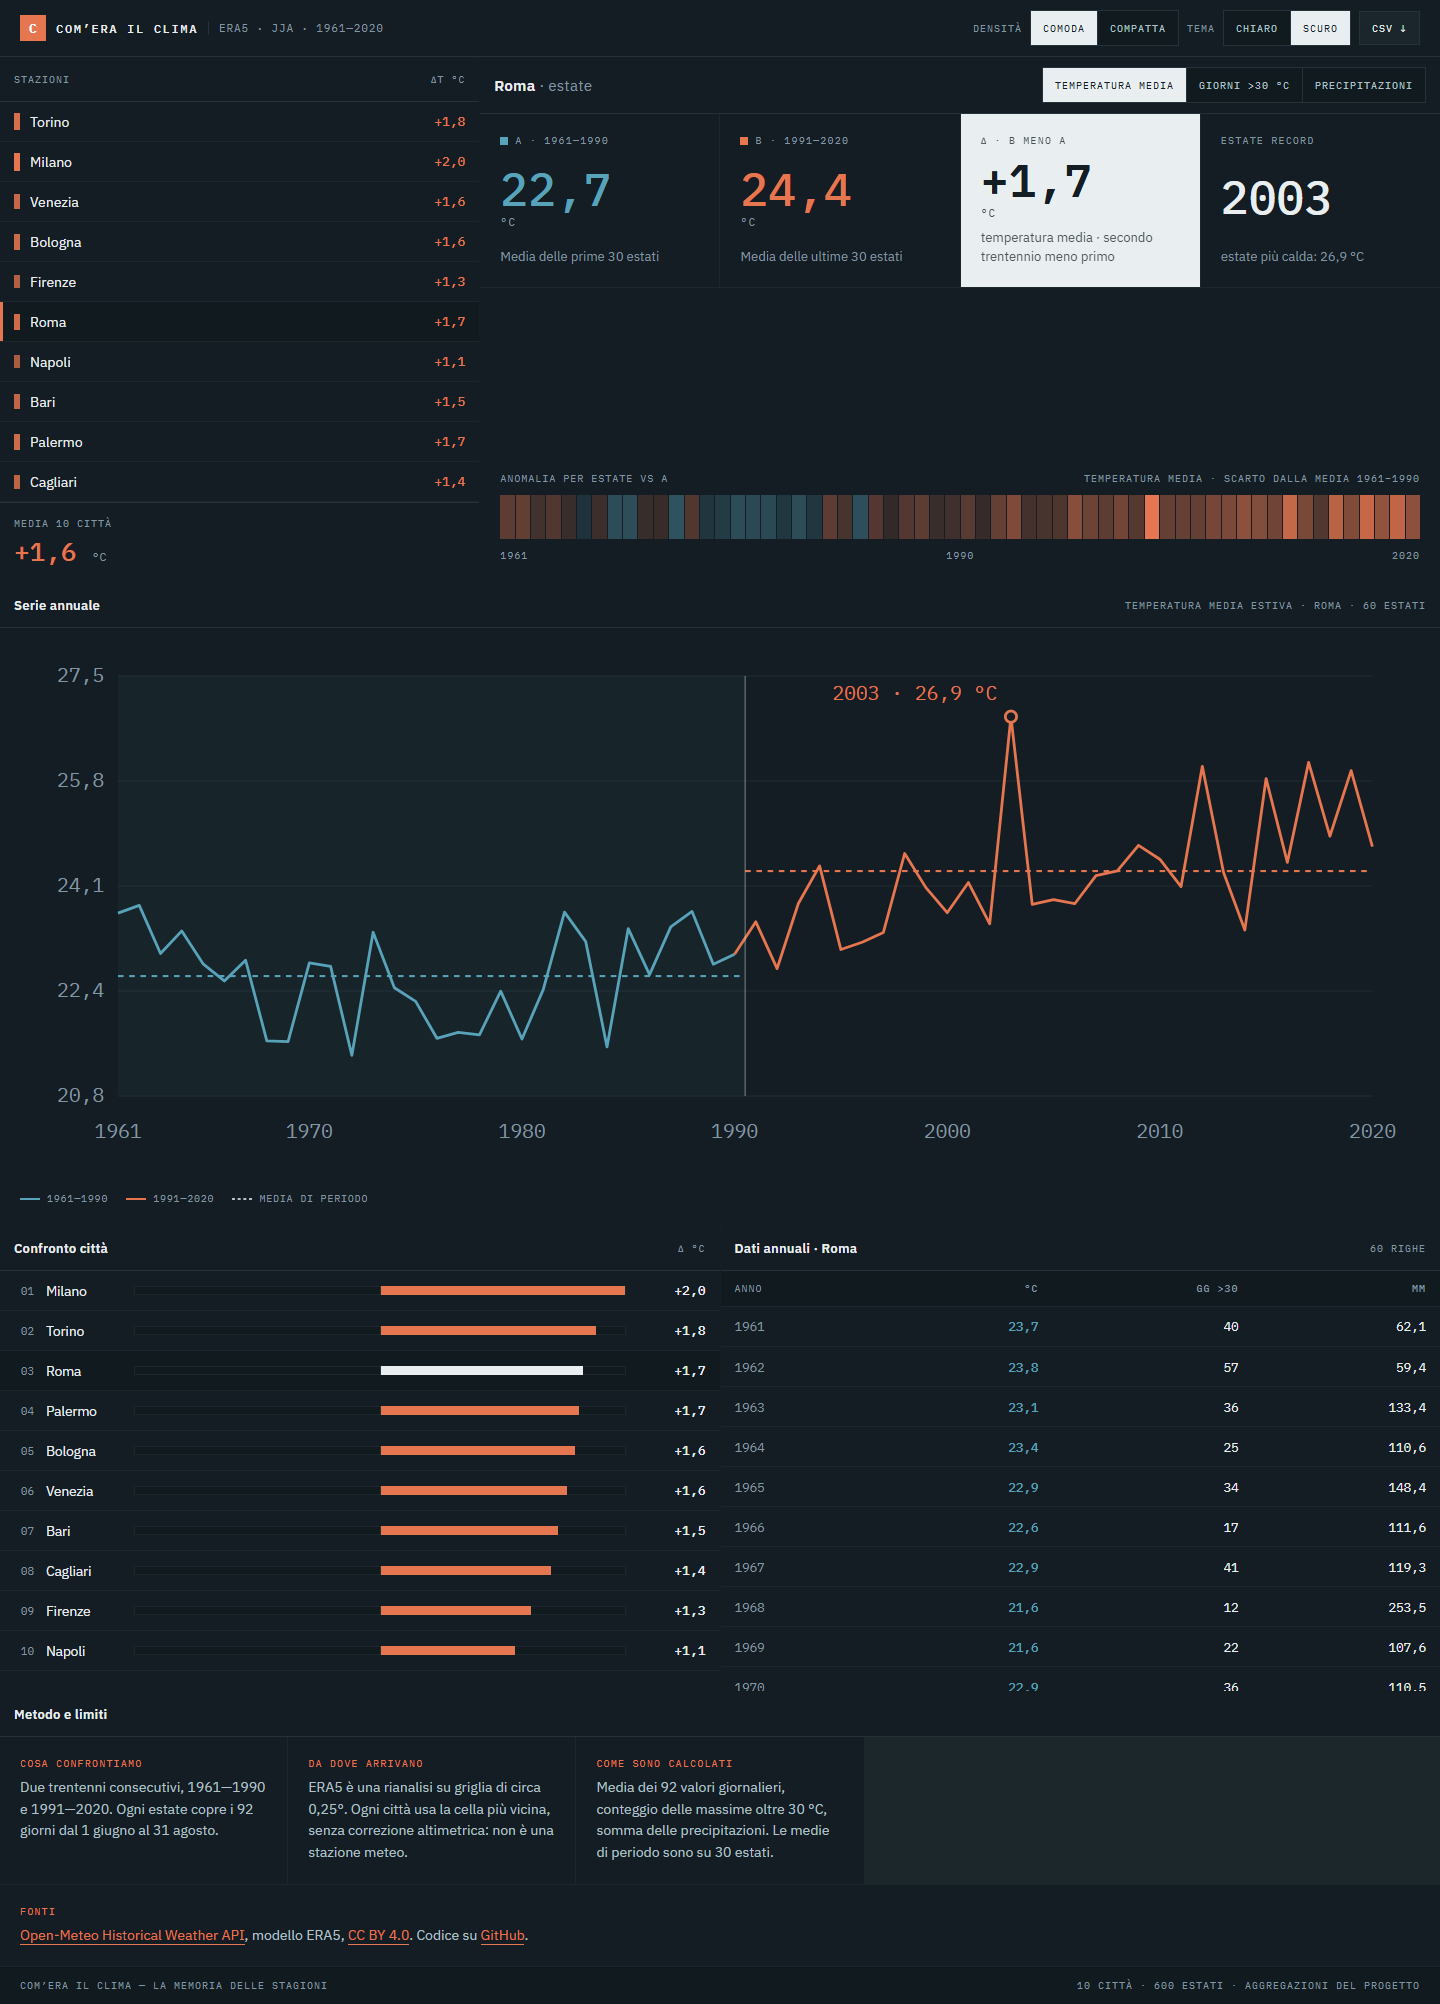
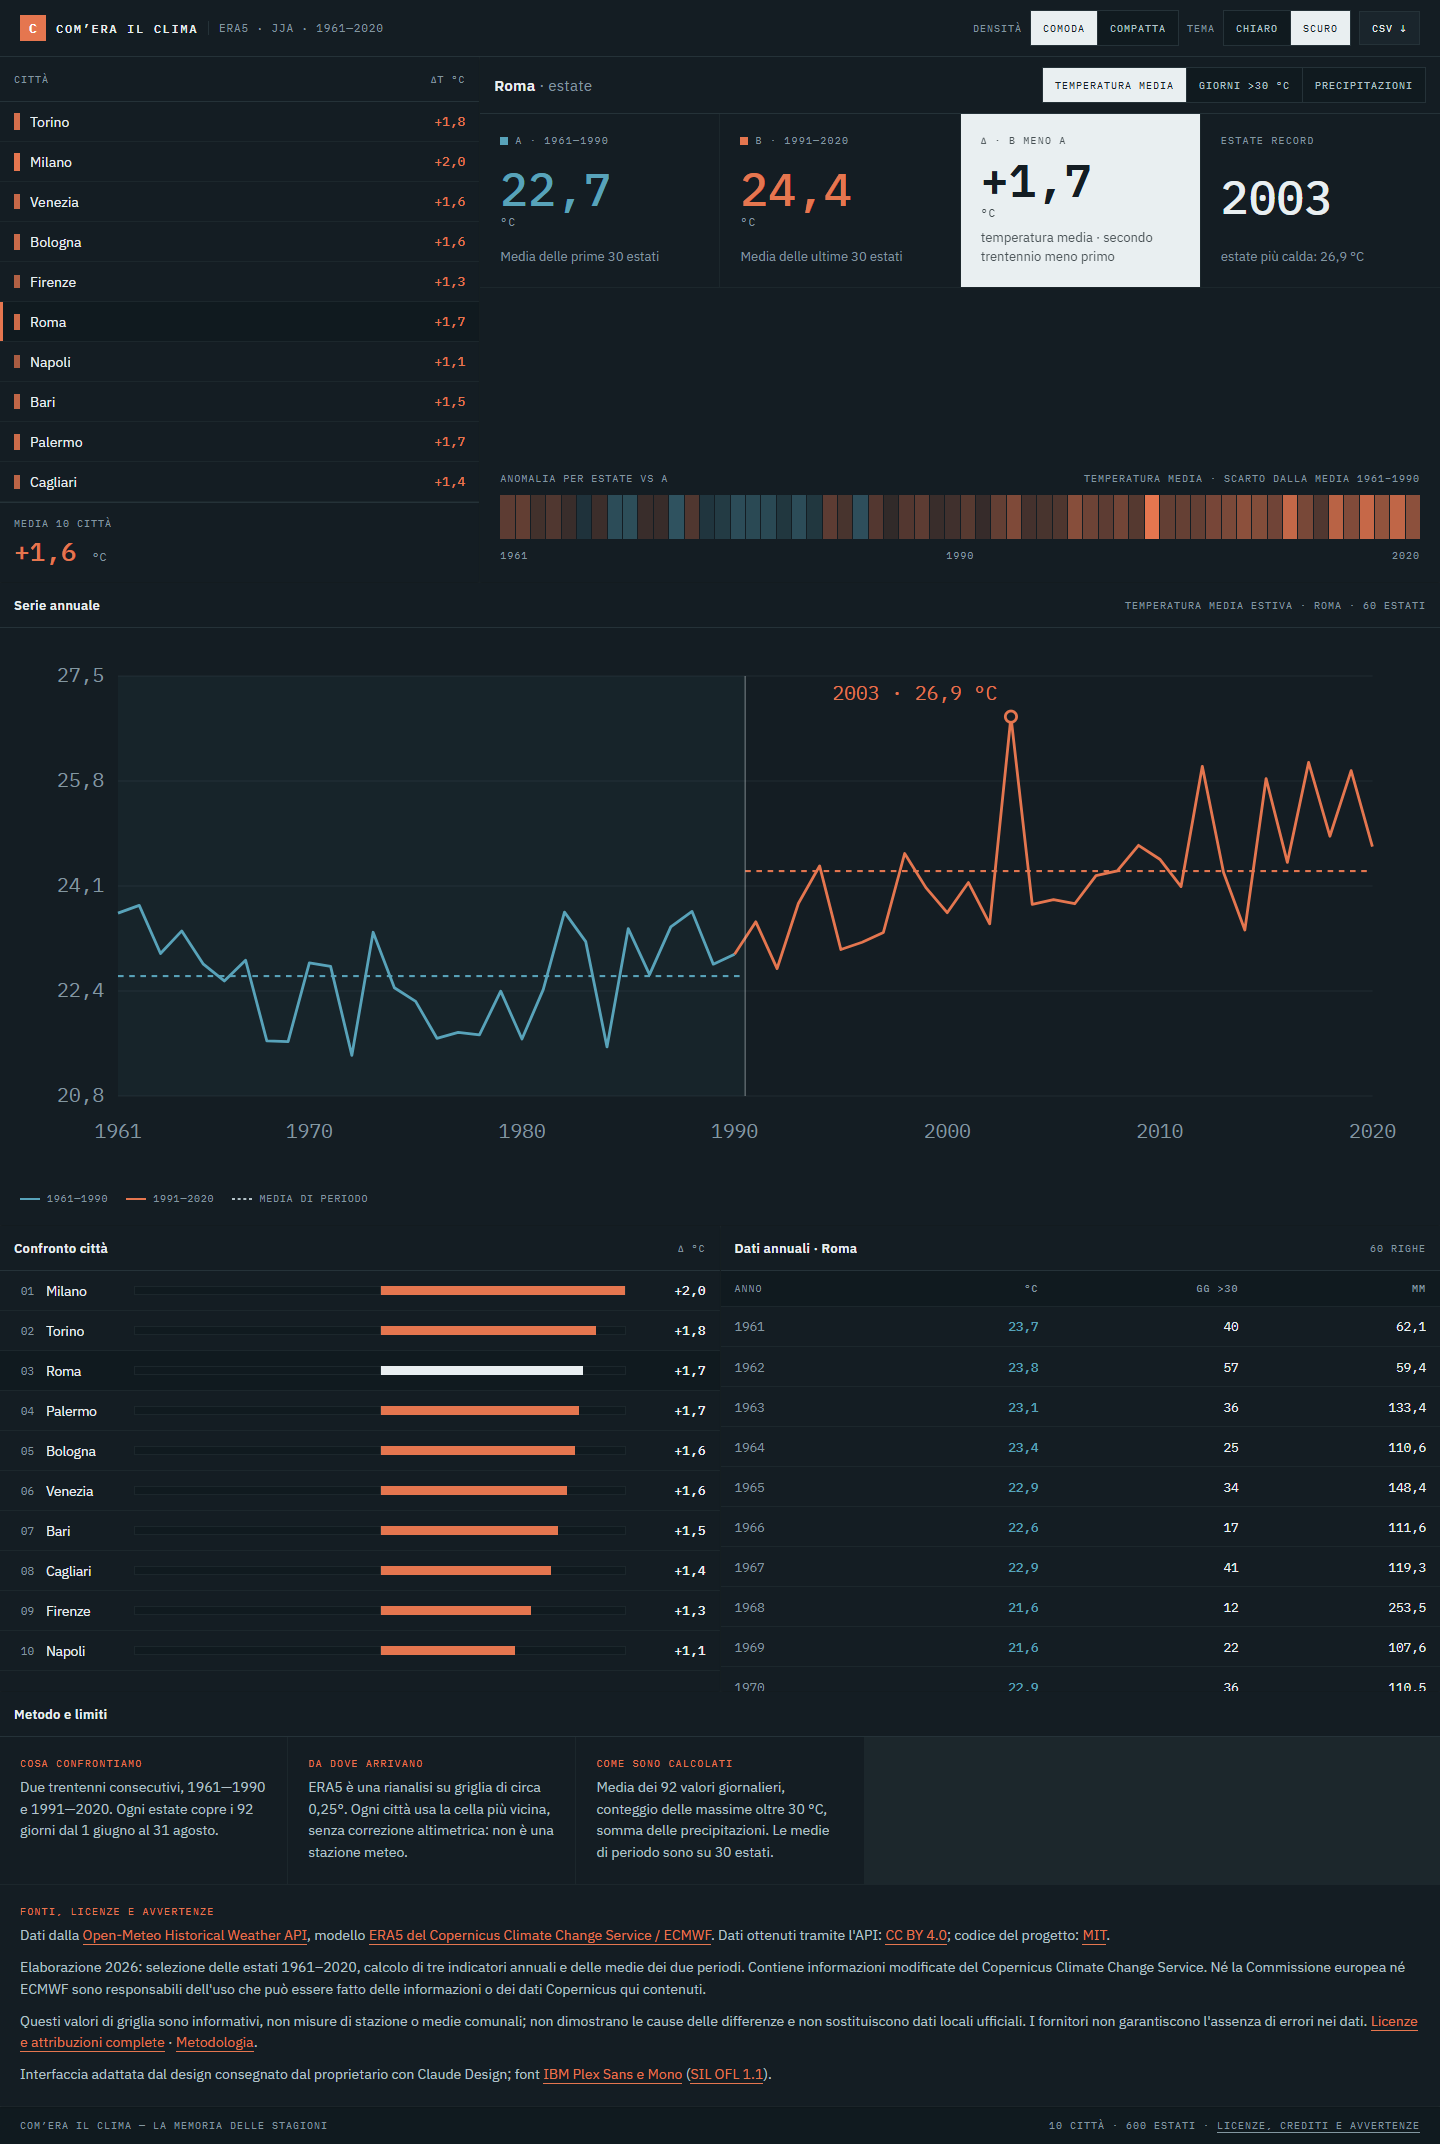
Chiarisce licenze crediti e limiti dei dati

diff --git a/src/main.ts b/src/main.ts
@@ -36,7 +36,7 @@ app.innerHTML = `
     </div>
   </header>
   <main id="console"><div class="initial-status" role="status">Caricamento della console climatica…</div></main>
-  <footer class="site-footer"><span>Com’era il clima — la memoria delle stagioni</span><span>10 città · 600 estati · aggregazioni del progetto</span></footer>
+  <footer class="site-footer"><span>Com’era il clima — la memoria delle stagioni</span><span>10 città · 600 estati · <a href="https://github.com/giubud/comera-il-clima/blob/main/DATA_LICENSE.md">Licenze, crediti e avvertenze</a></span></footer>
 `;
 
 const consoleRoot = document.querySelector<HTMLElement>('#console')!;
@@ -56,7 +56,12 @@ function methodsMarkup(): string {
       <article><h4>Cosa confrontiamo</h4><p>Due trentenni consecutivi, 1961—1990 e 1991—2020. Ogni estate copre i 92 giorni dal 1 giugno al 31 agosto.</p></article>
       <article><h4>Da dove arrivano</h4><p>ERA5 è una rianalisi su griglia di circa 0,25°. Ogni città usa la cella più vicina, senza correzione altimetrica: non è una stazione meteo.</p></article>
       <article><h4>Come sono calcolati</h4><p>Media dei 92 valori giornalieri, conteggio delle massime oltre 30 °C, somma delle precipitazioni. Le medie di periodo sono su 30 estati.</p></article>
-      <article class="sources"><h4>Fonti</h4><p><a href="https://open-meteo.com/en/docs/historical-weather-api" rel="noreferrer">Open-Meteo Historical Weather API</a>, modello ERA5, <a href="https://creativecommons.org/licenses/by/4.0/" rel="noreferrer">CC BY 4.0</a>. Codice su <a href="https://github.com/giubud/comera-il-clima" rel="noreferrer">GitHub</a>.</p></article>
+      <article class="sources"><h4>Fonti, licenze e avvertenze</h4>
+        <p>Dati dalla <a href="https://open-meteo.com/en/docs/historical-weather-api" rel="noreferrer">Open-Meteo Historical Weather API</a>, modello <a href="https://cds.climate.copernicus.eu/datasets/reanalysis-era5-single-levels" rel="noreferrer">ERA5 del Copernicus Climate Change Service / ECMWF</a>. Dati ottenuti tramite l'API: <a href="https://creativecommons.org/licenses/by/4.0/" rel="noreferrer">CC BY 4.0</a>; codice del progetto: <a href="https://github.com/giubud/comera-il-clima/blob/main/LICENSE" rel="noreferrer">MIT</a>.</p>
+        <p>Elaborazione 2026: selezione delle estati 1961–2020, calcolo di tre indicatori annuali e delle medie dei due periodi. Contiene informazioni modificate del Copernicus Climate Change Service. Né la Commissione europea né ECMWF sono responsabili dell'uso che può essere fatto delle informazioni o dei dati Copernicus qui contenuti.</p>
+        <p>Questi valori di griglia sono informativi, non misure di stazione o medie comunali; non dimostrano le cause delle differenze e non sostituiscono dati locali ufficiali. I fornitori non garantiscono l'assenza di errori nei dati. <a href="https://github.com/giubud/comera-il-clima/blob/main/DATA_LICENSE.md" rel="noreferrer">Licenze e attribuzioni complete</a> · <a href="https://github.com/giubud/comera-il-clima/blob/main/docs/METHODOLOGY.md" rel="noreferrer">Metodologia</a>.</p>
+        <p>Interfaccia adattata dal design consegnato dal proprietario con Claude Design; font <a href="https://github.com/IBM/plex" rel="noreferrer">IBM Plex Sans e Mono</a> (<a href="https://github.com/IBM/plex/blob/master/LICENSE.txt" rel="noreferrer">SIL OFL 1.1</a>).</p>
+      </article>
     </div>
   </section>`;
 }

diff --git a/tests/e2e.spec.ts b/tests/e2e.spec.ts
@@ -82,3 +82,15 @@ test('i controlli principali sono raggiungibili da tastiera', async ({ page }) =
   await page.keyboard.press('Enter');
   await expect(page.getByRole('heading', { name: 'Napoli · estate' })).toBeVisible();
 });
+
+test('mostra licenze, attribuzioni e limiti insieme ai dati', async ({ page }) => {
+  await page.goto('?city=roma&metric=meanTemperatureC');
+  await expect(page.getByRole('heading', { name: 'Roma · estate' })).toBeVisible();
+  await expect(page.getByRole('heading', { name: 'Fonti, licenze e avvertenze' })).toBeVisible();
+  await expect(page.getByRole('link', { name: 'CC BY 4.0' })).toHaveAttribute('href', 'https://creativecommons.org/licenses/by/4.0/');
+  await expect(page.getByRole('link', { name: 'MIT' })).toHaveAttribute('href', /\/LICENSE$/);
+  await expect(page.getByRole('link', { name: /ERA5 del Copernicus Climate Change Service/ })).toHaveAttribute('href', /cds\.climate\.copernicus\.eu/);
+  await expect(page.getByText(/Contiene informazioni modificate del Copernicus Climate Change Service/)).toBeVisible();
+  await expect(page.getByText(/Né la Commissione europea né ECMWF sono responsabili/)).toBeVisible();
+  await expect(page.getByRole('link', { name: 'Licenze e attribuzioni complete' })).toHaveAttribute('href', /DATA_LICENSE\.md$/);
+});

diff --git a/src/styles.css b/src/styles.css
@@ -123,12 +123,14 @@ thead th { position:sticky; top:0; z-index:1; height:35px; background:var(--pane
 .methods-grid .sources { grid-column:1/-1; }
 .methods-grid h4 { margin:0 0 7px; color:var(--b); font:400 10px 'IBM Plex Mono',monospace; letter-spacing:.12em; text-transform:uppercase; }
 .methods-grid p { margin:0; color:var(--ink2); font-size:14px; line-height:1.55; }
+.methods-grid p + p { margin-top:.65rem; }
 .loading-panel, .error { min-height:400px; }
 .loading-panel > p, .error > p { margin:var(--pad); color:var(--muted); }
 .placeholder { height:158px; margin:var(--pad); background:linear-gradient(90deg,var(--panel2),var(--line2),var(--panel2)); background-size:200% 100%; animation:pulse 1.5s infinite; }
 .error button { margin:0 var(--pad); padding:9px 14px; border:1px solid var(--line); background:var(--chip); cursor:pointer; }
 .initial-status { min-height:55vh; padding:var(--pad); background:var(--panel); color:var(--muted); }
 .site-footer { display:flex; justify-content:space-between; gap:16px; flex-wrap:wrap; padding:12px clamp(12px,2vw,20px); border-top:1px solid var(--line); background:var(--panel2); }
+.site-footer a { color:inherit; }
 @keyframes pulse { to { background-position:-200% 0; } }
 @media (max-width:700px) {
   .topbar { align-items:flex-start; }

diff --git a/src/ui/rail.ts b/src/ui/rail.ts
@@ -6,7 +6,7 @@ export function railMarkup(manifest: Manifest, selected: string): string {
   const maximum = Math.max(...deltas);
   const average = deltas.reduce((total, value) => total + value, 0) / deltas.length;
   return `<aside class="city-rail panel" aria-label="Città">
-    <div class="panel-bar"><span>Stazioni</span><span>ΔT °C</span></div>
+    <div class="panel-bar"><span>Città</span><span>ΔT °C</span></div>
     <ul>${manifest.cities.map((city, index) => {
       const delta = deltas[index]!;
       return `<li><button type="button" class="city-row" data-city="${city.id}" aria-pressed="${city.id === selected}">

diff --git a/DATA_LICENSE.md b/DATA_LICENSE.md
@@ -1,17 +1,20 @@
 # Licenza e attribuzione dei dati
 
-I file in `public/data/` sono elaborazioni di dati ottenuti tramite Open-Meteo Historical Weather API, modello ERA5.
+I file in `public/data/` sono elaborazioni di dati ottenuti tramite la Open-Meteo Historical Weather API, con modello ERA5 esplicito. La fonte sottostante è il Copernicus Climate Change Service (C3S), gestito da ECMWF.
 
-Open-Meteo dichiara i dati disponibili secondo **Creative Commons Attribution 4.0 International (CC BY 4.0)**. La licenza richiede attribuzione e indicazione delle modifiche:
+Open-Meteo dichiara i dati ottenuti tramite l'API disponibili secondo **Creative Commons Attribution 4.0 International (CC BY 4.0)**. La licenza richiede attribuzione, link alla licenza e indicazione delle modifiche:
 
 - Open-Meteo: https://open-meteo.com/
 - Historical Weather API: https://open-meteo.com/en/docs/historical-weather-api
 - CC BY 4.0: https://creativecommons.org/licenses/by/4.0/
-- Fonte sottostante: ERA5, Copernicus Climate Change Service / ECMWF.
+- Fonte sottostante: [ERA5, Copernicus Climate Change Service / ECMWF](https://cds.climate.copernicus.eu/datasets/reanalysis-era5-single-levels). Citazione del dataset: [Hersbach et al., ERA5 hourly data on single levels from 1940 to present](https://doi.org/10.24381/cds.adbb2d47).
+- Citazione del servizio: [Zippenfenig (2023), Open-Meteo.com Weather API](https://doi.org/10.5281/ZENODO.7970649).
 
-Modifiche effettuate: selezione delle estati giugno–agosto, validazione, aggregazione giornaliera in tre indicatori annuali, calcolo delle medie dei periodi 1961–1990 e 1991–2020, arrotondamento solo nella presentazione.
+Modifiche effettuate nel 2026: selezione delle estati giugno–agosto del 1961–2020, validazione, aggregazione dei dati giornalieri in tre indicatori annuali, calcolo delle medie dei periodi 1961–1990 e 1991–2020, arrotondamento solo nella presentazione.
 
-La licenza MIT in `LICENSE` si applica al codice del progetto, non sostituisce la licenza dei dati né le attribuzioni richieste.
+**Contiene informazioni modificate del Copernicus Climate Change Service (elaborazione 2026).** Né la Commissione europea né ECMWF sono responsabili dell'uso che può essere fatto delle informazioni o dei dati Copernicus contenuti nel progetto. Si veda la [licenza d'uso dei prodotti Copernicus](https://cds.climate.copernicus.eu/licences/licence-to-use-copernicus-products), sezione 5.
 
-L’API gratuita Open-Meteo è soggetta a condizioni d’uso non commerciali e limiti di chiamata. Prima di un uso commerciale occorre verificare e ottenere il piano appropriato direttamente dal fornitore.
+La licenza MIT in `LICENSE` si applica al codice del progetto; non sostituisce la licenza dei dati né le attribuzioni richieste.
+
+L'uso dell'[API gratuita Open-Meteo](https://open-meteo.com/en/terms) è soggetto a condizioni non commerciali e limiti di chiamata. Questa restrizione riguarda l'accesso all'API gratuita: Open-Meteo dichiara che i dati ottenuti tramite l'API seguono CC BY 4.0, che consente anche il riuso commerciale con attribuzione. Chi intende effettuare nuove chiamate per uso commerciale deve verificare il piano API appropriato con Open-Meteo.
 

diff --git a/README.md b/README.md
@@ -46,6 +46,20 @@ npm run data:validate
 
 La cache grezza viene salvata in `.cache/open-meteo/` e non entra nel repository. Non eseguire `data:build` senza una cache completa e validata.
 
+## Licenze e crediti
+
+Il codice del progetto è distribuito con [licenza MIT](LICENSE). I dati climatici provengono dalla [Open-Meteo Historical Weather API](https://open-meteo.com/en/docs/historical-weather-api), con modello ERA5 esplicito: la fonte sottostante è il [Copernicus Climate Change Service (C3S), gestito da ECMWF](https://cds.climate.copernicus.eu/datasets/reanalysis-era5-single-levels). I dati ottenuti tramite l'API sono disponibili secondo [CC BY 4.0](https://creativecommons.org/licenses/by/4.0/).
+
+Questo progetto ha modificato i dati: ha selezionato le estati giugno–agosto del 1961–2020, calcolato tre indicatori annuali e le medie dei due trentenni. **Contiene informazioni modificate del Copernicus Climate Change Service (elaborazione 2026).** Né la Commissione europea né ECMWF sono responsabili dell'uso che può essere fatto delle informazioni o dei dati Copernicus qui contenuti. Attribuzioni, trasformazioni e condizioni di riuso sono dettagliate in [DATA_LICENSE.md](DATA_LICENSE.md).
+
+I [termini di Open-Meteo](https://open-meteo.com/en/terms) riservano l'API gratuita agli usi non commerciali. Questa condizione riguarda l'accesso al servizio; il riuso dei dati ottenuti tramite l'API segue CC BY 4.0, anche per usi commerciali con attribuzione.
+
+L'interfaccia è stata adattata dal design consegnato dal proprietario del progetto con Claude Design. Usa [IBM Plex Sans e Mono](https://github.com/IBM/plex), disponibili secondo [SIL Open Font License 1.1](https://github.com/IBM/plex/blob/master/LICENSE.txt) e caricati da Google Fonts.
+
+## Avvertenze sui dati
+
+I valori ERA5 rappresentano celle di una griglia climatica, non misure di stazioni meteorologiche né medie dell'intero territorio comunale. Il confronto termina nel 2020, descrive i periodi scelti e non dimostra le cause delle differenze. Le elaborazioni sono informative e non sostituiscono dati locali ufficiali o analisi per decisioni operative. I fornitori non garantiscono l'assenza di errori nei dati. Si vedano [metodologia e limiti](docs/METHODOLOGY.md) e [termini di Open-Meteo](https://open-meteo.com/en/terms).
+
 ## Metodologia e provenienza
 
 - [Metodologia](docs/METHODOLOGY.md)
@@ -57,5 +71,3 @@ La cache grezza viene salvata in `.cache/open-meteo/` e non entra nel repository
 ## Contribuire
 
 Le istruzioni per aggiungere una città, rigenerare i dati ed eseguire le verifiche sono in [CONTRIBUTING.md](CONTRIBUTING.md).
-
-Il codice è distribuito con licenza MIT. I dati hanno licenze e attribuzioni separate descritte in [DATA_LICENSE.md](DATA_LICENSE.md).

diff --git a/docs/DECISIONS.md b/docs/DECISIONS.md
@@ -31,3 +31,9 @@
 - L'impostazione editoriale è sostituita da una console dati full-width fedele all'handoff: rail delle città, quattro KPI, strisce di anomalia, serie annuale, classifica, tabella, tema chiaro/scuro e densità.
 - Restano invariati stack, sorgente ERA5, formule, schema dei dataset cittadini, CSV e stato URL. Il manifest include ora i riepiloghi di periodo già verificati, così rail e classifica non richiedono il caricamento dei dieci dataset.
 - Tema e densità sono preferenze locali (comera-console) e non entrano nel collegamento condivisibile.
+
+## 2026-09-28 — Crediti e avvertenze
+
+- Verificati termini Open-Meteo, CC BY 4.0 e licenza Copernicus sulle fonti ufficiali. Il README e il sito riportano fonte, modifiche ai dati, licenze distinte per dati e codice, credito C3S/ECMWF e la nota di responsabilità prevista dalla licenza Copernicus.
+- La restrizione non commerciale riguarda l'uso dell'API gratuita Open-Meteo; il riuso dei dati ottenuti tramite l'API è descritto secondo CC BY 4.0.
+- Sono accreditati il design consegnato dal proprietario con Claude Design e i font IBM Plex (SIL OFL 1.1). Le avvertenze distinguono la cella ERA5 dalla misura di stazione e chiariscono che le differenze tra periodi non provano causalità.

diff --git a/docs/DATA_SOURCES.md b/docs/DATA_SOURCES.md
@@ -50,5 +50,5 @@ Le coordinate restituite per la cella effettiva sono contenute nei rispettivi JS
 
 ## Verifica iniziale
 
-Le richieste pilota reali per Roma 1961 e 2020 sono documentate in [DATA_CHECK.md](DATA_CHECK.md). Le condizioni d’uso sono state ricontrollate il 16 settembre 2026 su https://open-meteo.com/en/terms e https://open-meteo.com/en/pricing.
+Le richieste pilota reali per Roma 1961 e 2020 sono documentate in [DATA_CHECK.md](DATA_CHECK.md). Licenze, attribuzione e condizioni d'uso sono state ricontrollate il 28 settembre 2026 sui [termini Open-Meteo](https://open-meteo.com/en/terms), sulla [pagina di attribuzione](https://open-meteo.com/en/pricing) e sulla [licenza Copernicus](https://cds.climate.copernicus.eu/licences/licence-to-use-copernicus-products). La dicitura pubblica e il disclaimer sono in [DATA_LICENSE.md](../DATA_LICENSE.md).
 
